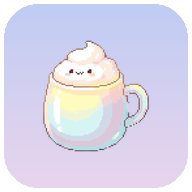
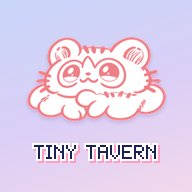
v470

diff --git a/lobby-view.html b/lobby-view.html
@@ -1,11 +1,11 @@
 <!doctype html>
 <html lang="zh-Hant">
-<head><meta charset="utf-8"><meta name="viewport" content="width=device-width,initial-scale=1,viewport-fit=cover"><title>酒館大廳｜Tiny Tavern 小小酒館</title>
+<head><meta charset="utf-8"><meta name="viewport" content="width=device-width,initial-scale=1,viewport-fit=cover"><title>酒館大廳｜Tiny Tavern 小小酒館</title><link rel="icon" type="image/png" href="/favicon.png"><link rel="apple-touch-icon" href="/apple-touch-icon.png?v=470">
 <link rel="canonical" href="https://tinytavern.tw/lobby.html">
 <style>
 html,body{margin:0;width:100%;height:100%;overflow:hidden;background:#352631}#tavernView{position:fixed;left:0;top:0;border:0;transform-origin:0 0}
 </style></head>
 <body><iframe id="tavernView" title="小小酒館大廳" allow="microphone; autoplay; fullscreen" allowfullscreen></iframe>
 <script>
-(()=>{'use strict';if(!new URLSearchParams(location.search).has('preview')&&!matchMedia('(hover: hover) and (pointer: fine)').matches){location.replace('lobby.html'+location.search+location.hash);return;}const frame=document.getElementById('tavernView');const fit=()=>{const scale=Math.min(innerWidth/1280,innerHeight/720);frame.style.width=innerWidth/scale+'px';frame.style.height=innerHeight/scale+'px';frame.style.transform='scale('+scale+')';};fit();addEventListener('resize',fit);const source=new URL('lobby.html',location.href);source.search=location.search;source.hash=location.hash;source.searchParams.set('v','469');frame.src=source.href;})();
+(()=>{'use strict';if(!new URLSearchParams(location.search).has('preview')&&!matchMedia('(hover: hover) and (pointer: fine)').matches){location.replace('lobby.html'+location.search+location.hash);return;}const frame=document.getElementById('tavernView');const fit=()=>{const scale=Math.min(innerWidth/1280,innerHeight/720);frame.style.width=innerWidth/scale+'px';frame.style.height=innerHeight/scale+'px';frame.style.transform='scale('+scale+')';};fit();addEventListener('resize',fit);const source=new URL('lobby.html',location.href);source.search=location.search;source.hash=location.hash;source.searchParams.set('v','470');frame.src=source.href;})();
 </script></body></html>

diff --git a/lobby.html b/lobby.html
@@ -16,7 +16,7 @@
 <meta name="apple-mobile-web-app-capable" content="yes">
 <meta name="apple-mobile-web-app-status-bar-style" content="black-translucent">
 <meta name="apple-mobile-web-app-title" content="小小酒館">
-<link rel="apple-touch-icon" href="apple-touch-icon.png">
+<link rel="apple-touch-icon" href="apple-touch-icon.png?v=470">
 <meta name="theme-color" content="#C4ADEC">
 <meta property="og:site_name" content="Tiny Tavern 小小酒館">
 <meta property="og:title" content="酒館大廳｜Tiny Tavern">
@@ -1697,7 +1697,7 @@ body.artBub.bub3s .npc .bub{
 
 <div id="emptyMsg">酒館剛開張，還沒有闆闆進來坐<br>成為第一位在大廳留下身影的人吧！</div>
 
-<div id="verTag" style="position:fixed;left:10px;bottom:5px;z-index:60;font-size:10px;color:#7A5E8C;background:rgba(255,250,253,.72);padding:1px 8px;border-radius:8px">v469</div>
+<div id="verTag" style="position:fixed;left:10px;bottom:5px;z-index:60;font-size:10px;color:#7A5E8C;background:rgba(255,250,253,.72);padding:1px 8px;border-radius:8px">v470</div>
 <div id="hint2">點地板移動你的小人 · 方向鍵也可以 · 想讓他自己逛可開啟左上角「掛機亂走」</div>
 <button id="joinBtn" onclick="ttNavigate('card.html')">✦ 我也要做闆卡</button>
 

diff --git a/guide.html b/guide.html
@@ -5,7 +5,7 @@
 <meta name="viewport" content="width=device-width, initial-scale=1.0, viewport-fit=cover">
 <title>新手指南｜Tiny Tavern 小小酒館</title>
 <link rel="icon" type="image/png" href="/favicon.png">
-<link rel="apple-touch-icon" href="/apple-touch-icon.png">
+<link rel="apple-touch-icon" href="/apple-touch-icon.png?v=470">
 <meta name="theme-color" content="#49374e">
 <meta name="description" content="小小酒館新手指南 ✦ 三步入館、怎麼找冒險者一起玩、VIP 與時裝間、常見問題一次看懂。">
 <meta property="og:type" content="website">

diff --git a/card.html b/card.html
@@ -5,7 +5,7 @@
 <meta charset="UTF-8">
 <meta name="viewport" content="width=device-width, initial-scale=1.0">
 <link rel="icon" type="image/png" href="/favicon.png">
-<link rel="apple-touch-icon" href="/favicon.png">
+<link rel="apple-touch-icon" href="/apple-touch-icon.png?v=470">
 <meta name="theme-color" content="#C4ADEC">
 <meta property="og:site_name" content="Tiny Tavern 小小酒館">
 <meta property="og:title" content="闆卡工房｜Tiny Tavern 小小酒館">

diff --git a/admin.html b/admin.html
@@ -4,7 +4,7 @@
 <meta charset="UTF-8">
 <meta name="viewport" content="width=device-width, initial-scale=1.0">
 <link rel="icon" type="image/png" href="/favicon.png">
-<link rel="apple-touch-icon" href="/favicon.png">
+<link rel="apple-touch-icon" href="/apple-touch-icon.png?v=470">
 <meta name="theme-color" content="#FF9EB5">
 <meta property="og:site_name" content="Tiny Tavern 小小酒館">
 <meta property="og:title" content="店長台帳｜Tiny Tavern">

diff --git a/partner.html b/partner.html
@@ -4,7 +4,7 @@
 <meta charset="UTF-8">
 <meta name="viewport" content="width=device-width, initial-scale=1.0">
 <link rel="icon" type="image/png" href="/favicon.png">
-<link rel="apple-touch-icon" href="/favicon.png">
+<link rel="apple-touch-icon" href="/apple-touch-icon.png?v=470">
 <meta name="theme-color" content="#FF9EB5">
 <meta property="og:site_name" content="Tiny Tavern 小小酒館">
 <meta property="og:title" content="角色手札｜Tiny Tavern">

diff --git a/CLAUDE.md b/CLAUDE.md
@@ -1,5 +1,8 @@
 # 小小酒館修改紀錄
 
+## v470 網站圖示換成線條吉祥物
+使用者：原本的奶油杯網站圖示是 AI 做的（其他小圖示是購買的授權素材，保留），換成我們的線條吉祥物當 logo，可以加背景，下面用像素字寫酒館英文。使用者選定藍紫漸層底（與原圖示同色）＋ lobby-ui/assets/theme/brand-cat.png（內部填白、淡紫陰影）＋手繪 5×7 像素字「TINY TAVERN」（深藍字、白邊、粉色錯位陰影，整數倍放大不模糊）。覆蓋 icon-512.png、icon-192.png、apple-touch-icon.png；新增 favicon.png（64px，只有貓、線條加粗，分頁太小放不下字；全站一直引用 /favicon.png 但檔案原本不存在）。manifest 與各頁 apple-touch-icon 加 ?v=470 避免舊圖快取；admin／card／partner 的 apple-touch-icon 原本指向不存在的 favicon.png，改指 apple-touch-icon.png；lobby-view.html（電腦版實際開的頁）補上圖示連結。
+
 ## v469 開店前檢查：店長頁人物畫錯、客人文案、分享預覽、調整頁不上線
 使用者：店長頁看闆卡還是有人魚套。原因：admin.html 第二個 drawDollTo（TEST_MODE）用白盒期的 tpPosed 取餘數（後髮／前髮／衣服 %3、眼睛 %2），衣服 4 畫成露亞裝 B、後髮 3 畫成露亞長髮、眼睛 2／3 畫成露亞／小莓眼，大部分客人都被畫成版權套。改為與大廳相同：部件編號就是款式、找不到不換別款；這個 drawDollTo 也先 TTRetiredOutfits.sanitize（v468 只加在被覆蓋掉的第一個）。驗證：Nasu、Ling、吉汪汪、P 與露亞穿搭在店長頁與大廳畫出相同部件（髮色漸層細節不同）。大廳闆卡本來就正確（已在正式站確認 Nasu 穿花箋髮＋綁帶牛仔套裝）。
 客人文案禁用詞：大廳點單／預約／訂單／名簿／通知的「陪玩」「店員」改「冒險者」、「下單」改「點單」、「開始服務囉」改「成立囉」、「收乾淨」「請保持乾淨」改寫；冒險者沒填常玩遊戲時不再顯示「資料由陪玩本人更新中」，改「想玩的遊戲可以在點單時備註」。新手指南「虛擬角色陪玩酒館」「乾淨、無擦邊的陪玩服務」等句改寫。新手指南的手機說明更新為現況（手機是功能首頁：儲值、訂單、私訊、信箱；點單與大廳用電腦，原本寫轉橫式進大廳、直式可點單），連結 Discord 一步改為「做闆卡前先用 Discord 登入」。companion-achievements、order-voice、secure-login 錯誤訊息同步（版本 469）。manifest 說明改寫。
